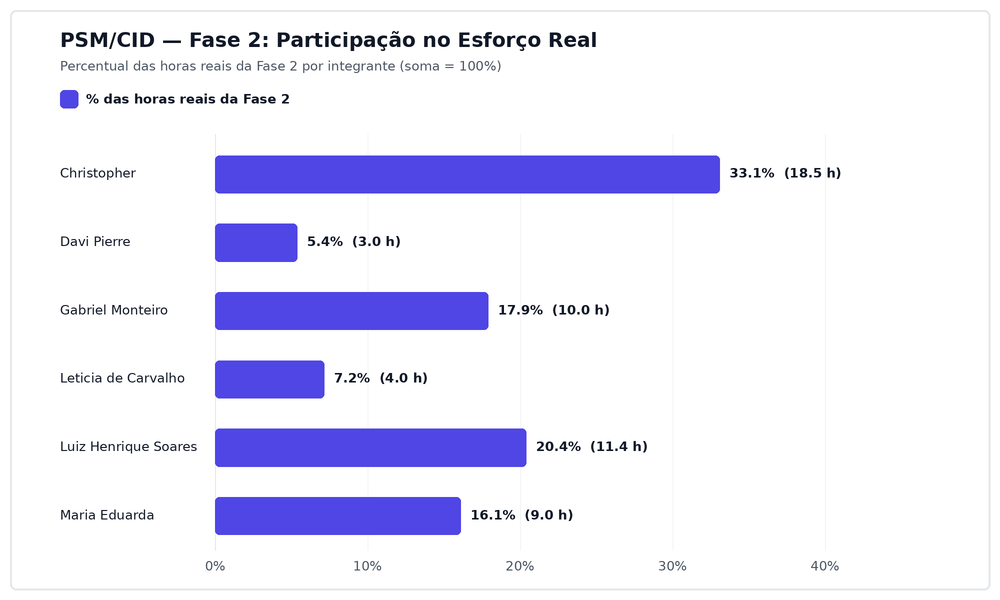
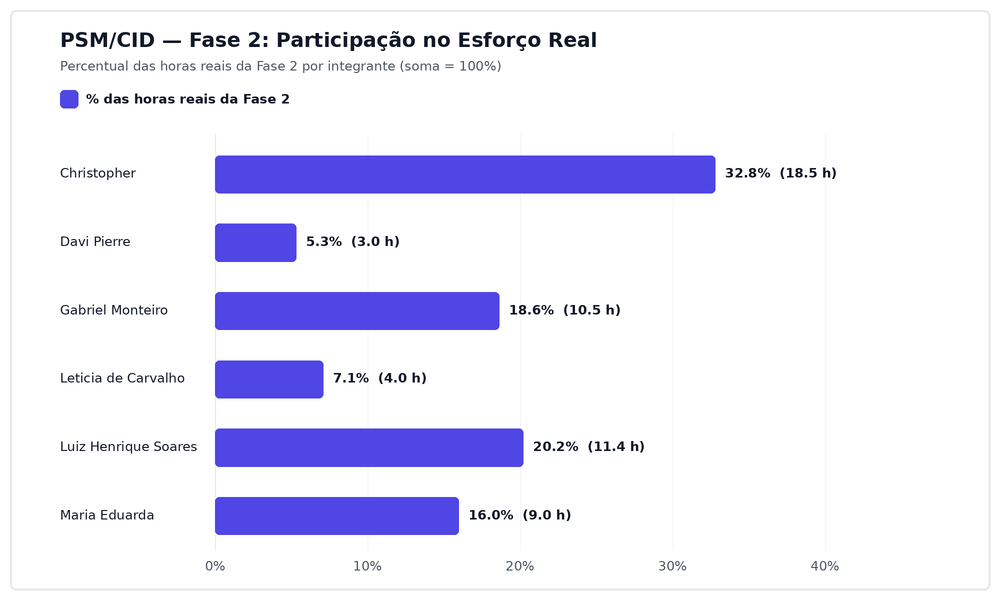
fix: incluir as horas da #30 no relatório PSM da Fase 2 e no apêndice

diff --git a/docs/gestao/relatorios/relatorio-psm-fase-2.md b/docs/gestao/relatorios/relatorio-psm-fase-2.md
@@ -72,7 +72,7 @@ Os dados primários coletados pelo coletor automatizado `scripts/coleta_psm.py` 
 
 | Fase | Total de Issues | Horas Estimadas (h) | Horas Reais (h) | Custo Estimado (R$) | Custo Real (R$) | Estado da Medição |
 | :--- | :---: | :---: | :---: | :---: | :---: | :--- |
-| **Fase 2** | 27 | 62,00 | 55,90 | R$ 2.790,00 | R$ 2.515,50 | 27 issues concluídas |
+| **Fase 2** | 27 | 62,50 | 56,40 | R$ 2.812,50 | R$ 2.538,00 | 27 issues concluídas |
 
 *Tabela 1: Recursos e custos da Fase 2 (Fonte: dados/gestao/01_recursos_e_custos_fases.csv).*
 
@@ -80,15 +80,15 @@ Os dados primários coletados pelo coletor automatizado `scripts/coleta_psm.py` 
 
 | Integrante | Login GitHub | Subgrupo | Issues Atribuídas | Horas Est. (h) | Horas Reais (h) | Custo Real (R$) | Esforço Real (%) |
 | :--- | :--- | :---: | :---: | :---: | :---: | :---: | :---: |
-| Christopher | `wChrstphr` | F2/F4 | 13 | 22,50 | 18,50 | R$ 832,50 | 33,09% |
-| Davi Pierre | `DaviPierre` | F1/F3 | 2 | 5,00 | 3,00 | R$ 135,00 | 5,37% |
-| Gabriel Monteiro | `GabrielSMonteiro` | F1/F3 | 3 | 11,00 | 10,00 | R$ 450,00 | 17,89% |
-| Letícia de Carvalho | `LeticiaSantosss` | F1/F3 | 2 | 4,50 | 4,00 | R$ 180,00 | 7,16% |
-| Luiz Henrique Soares | `luizh-gsoares` | F2/F4 | 6 | 11,00 | 11,40 | R$ 513,00 | 20,39% |
-| Maria Eduarda | `eduarda-ogomes` | F2/F4 | 5 | 8,00 | 9,00 | R$ 405,00 | 16,10% |
-| **Total** | - | - | **27** | **62,00** | **55,90** | **R$ 2.515,50** | **100,00%** |
+| Christopher | `wChrstphr` | F2/F4 | 12 | 22,50 | 18,50 | R$ 832,50 | 32,80% |
+| Davi Pierre | `DaviPierre` | F1/F3 | 2 | 5,00 | 3,00 | R$ 135,00 | 5,32% |
+| Gabriel Monteiro | `GabrielSMonteiro` | F1/F3 | 4 | 11,50 | 10,50 | R$ 472,50 | 18,62% |
+| Letícia de Carvalho | `LeticiaSantosss` | F1/F3 | 2 | 4,50 | 4,00 | R$ 180,00 | 7,09% |
+| Luiz Henrique Soares | `luizh-gsoares` | F2/F4 | 6 | 11,00 | 11,40 | R$ 513,00 | 20,21% |
+| Maria Eduarda | `eduarda-ogomes` | F2/F4 | 5 | 8,00 | 9,00 | R$ 405,00 | 15,96% |
+| **Total** | - | - | **27** | **62,50** | **56,40** | **R$ 2.538,00** | **100,00%** |
 
-*Tabela 2: Esforço individual na Fase 2 (Fonte: dados/gestao/06_contribuicao_por_fase.csv). Issues compartilhadas contam para cada responsável; o total corresponde às 27 issues distintas da fase. Ainda sem horas reais registradas: [#26](https://github.com/FCTE-Qualidade-de-Software-1/2026-2_T02_KAREN_JONES/issues/26), [#27](https://github.com/FCTE-Qualidade-de-Software-1/2026-2_T02_KAREN_JONES/issues/27) e [#74](https://github.com/FCTE-Qualidade-de-Software-1/2026-2_T02_KAREN_JONES/issues/74), a parte de Davi Pierre na [#23](https://github.com/FCTE-Qualidade-de-Software-1/2026-2_T02_KAREN_JONES/issues/23) e a [#30](https://github.com/FCTE-Qualidade-de-Software-1/2026-2_T02_KAREN_JONES/issues/30); os percentuais podem mudar quando forem preenchidas.*
+*Tabela 2: Esforço individual na Fase 2 (Fonte: dados/gestao/06_contribuicao_por_fase.csv). Issues compartilhadas contam para cada responsável; o total corresponde às 27 issues distintas da fase. Ainda sem horas reais registradas: [#26](https://github.com/FCTE-Qualidade-de-Software-1/2026-2_T02_KAREN_JONES/issues/26), [#27](https://github.com/FCTE-Qualidade-de-Software-1/2026-2_T02_KAREN_JONES/issues/27) e [#74](https://github.com/FCTE-Qualidade-de-Software-1/2026-2_T02_KAREN_JONES/issues/74) e a parte de Davi Pierre na [#23](https://github.com/FCTE-Qualidade-de-Software-1/2026-2_T02_KAREN_JONES/issues/23); os percentuais podem mudar quando forem preenchidas.*
 
 ![Horas estimadas e reais por integrante na Fase 2.](/img/gestao/04_horas_integrante_fase_2.png)
 
@@ -133,9 +133,9 @@ Em cumprimento ao terceiro critério de pronto da Issue #31, a tabela abaixo con
 | Indicador de Gestão | Fase 1 (Requisitos & Setup) | Fase 2 (Especificação GQM) | Balanço Consolidado da Entrega 1 | Tendência e Interpretação |
 | :--- | :---: | :---: | :---: | :--- |
 | **Total de Issues Alocadas** | 17 issues | 27 issues | **44 issues técnicas e de gestão** | A Fase 2 recebeu as correções do artigo depois do PC1. |
-| **Horas Estimadas Totais** | 53,50 h | 62,00 h | **115,50 h planejadas** | Planejamento próximo do executado no acumulado. |
-| **Horas Reais Acumuladas** | 57,91 h | 55,90 h | **113,81 h executadas** | Fases 1 e 2 concluídas. |
-| **Custo Equivalente (R$ 45/h)** | R$ 2.605,95 | R$ 2.515,50 | **R$ 5.121,45 investidos** | Abaixo dos R$ 5.197,50 estimados. |
+| **Horas Estimadas Totais** | 53,50 h | 62,50 h | **116,00 h planejadas** | Planejamento próximo do executado no acumulado. |
+| **Horas Reais Acumuladas** | 57,91 h | 56,40 h | **114,31 h executadas** | Fases 1 e 2 concluídas. |
+| **Custo Equivalente (R$ 45/h)** | R$ 2.605,95 | R$ 2.538,00 | **R$ 5.143,95 investidos** | Abaixo dos R$ 5.220,00 estimados. |
 | **Aderência aos Prazos** | 29,4% | 44,4% | **44,4% no prazo na F2** | Melhora em relação à Fase 1, ainda longe da meta de 100%. |
 | **Taxa de Revisão por Pares** | 50,0% | 45,0% | **46,7% dos PRs aprovados (14 de 30)** | Abaixo da regra de aprovação do `CONTRIBUTING.md`. |
 | **Foco Principal do Esforço** | Requisitos, normas e governança | GQM, métricas, artigo e apresentação | **Ciclo completo da Entrega 1** | Transição fluida entre definição e especificação. |
@@ -146,8 +146,8 @@ Os valores da Fase 1 nesta seção vêm da coleta atual e diferem dos publicados
 
 | Critério de decisão (seção 2) | Resultado | Situação |
 | :--- | :--- | :--- |
-| Desvio de esforço dentro de ±20% | -9,8% (55,90 h reais para 62,00 h estimadas) | Atendido |
-| Disparidade individual decrescendo | De 29,35 para 27,72 pontos percentuais | Atendido |
+| Desvio de esforço dentro de ±20% | -9,8% (56,40 h reais para 62,50 h estimadas) | Atendido |
+| Disparidade individual decrescendo | De 29,35 para 27,48 pontos percentuais | Atendido |
 | Ganho de acurácia positivo | -1,6 ponto: a Fase 1 ficou a 8,2 pontos de 100% e a Fase 2 a 9,8 | Não atendido, com as duas fases dentro da faixa |
 | Aderência geral de 100,0% | 44,4% | Não atendido |
 | 100,0% dos pull requests aprovados por pares | 45,0%, contando só as aprovações registradas no GitHub (ver limite da medida na Tabela 4) | Não atendido |
@@ -203,4 +203,4 @@ Todos os indicadores apresentados neste relatório são respaldados pelos artefa
 | :---: | :---: | :--- | :--- | :--- |
 | 1.0 | 18/10/2026 | Estruturação inicial do Relatório PSM/CID da Fase 2 (esqueleto normativo, measurement constructs e decisões de gestão preliminares) | [Maria Eduarda](https://github.com/eduarda-ogomes) | - |
 | 1.1 | 20/10/2026 | Atualização das medições da Fase 2 (15 issues concluídas, 21,7h reais) e consolidação da Entrega 1 pós-merge com a main | [Maria Eduarda](https://github.com/eduarda-ogomes) | - |
-| 1.2 | 05/11/2026 | Atualização com a coleta de 05/11 (27 issues, 55,9h reais), novas figuras, taxa de revisão conferida nos pull requests e interpretação dos critérios de decisão | [Christopher Paraizo](https://github.com/wChrstphr) | |
+| 1.2 | 05/11/2026 | Atualização com a coleta de 05/11 (27 issues, 56,4h reais), novas figuras, taxa de revisão conferida nos pull requests e interpretação dos critérios de decisão | [Christopher Paraizo](https://github.com/wChrstphr) | |

diff --git a/artigo/contribuicao-e-ia.md b/artigo/contribuicao-e-ia.md
@@ -66,13 +66,13 @@ O percentual de esforço individual foi calculado com base no total de horas rea
 
 | Integrante | Login GitHub | Subgrupo | Issues Atribuídas | Horas Est. (h) | Horas Reais (h) | Commits / PRs | Esforço Real (%) |
 | :--- | :--- | :---: | :---: | :---: | :---: | :---: | :---: |
-| Christopher | `@wChrstphr` | F2/F4 | 14 | 25,00 | 21,00 | 87 / 14 | 18,45% |
-| Davi Pierre | `@DaviPierre` | F1/F3 | 6 | 20,00 | 21,00 | 5 / 2 | 18,45% |
-| Gabriel Monteiro | `@GabrielSMonteiro` | F1/F3 | 7 | 27,00 | 28,00 | 37 / 6 | 24,60% |
-| Letícia de Carvalho | `@LeticiaSantosss` | F1/F3 | 7 | 12,00 | 9,91 | 6 / 6 | 8,71% |
-| Luiz Henrique Soares | `@luizh-gsoares` | F2/F4 | 7 | 12,00 | 12,40 | 21 / 8 | 10,90% |
-| Maria Eduarda | `@eduarda-ogomes` | F2/F4 | 8 | 19,50 | 21,50 | 31 / 10 | 18,89% |
-| **Total** | - | - | **49** | **115,50** | **113,81** | **187 / 46** | **100,00%** |
+| Christopher | `@wChrstphr` | F2/F4 | 13 | 25,00 | 21,00 | 87 / 15 | 18,37% |
+| Davi Pierre | `@DaviPierre` | F1/F3 | 6 | 20,00 | 21,00 | 5 / 2 | 18,37% |
+| Gabriel Monteiro | `@GabrielSMonteiro` | F1/F3 | 8 | 27,50 | 28,50 | 37 / 6 | 24,93% |
+| Letícia de Carvalho | `@LeticiaSantosss` | F1/F3 | 7 | 12,00 | 9,91 | 6 / 6 | 8,67% |
+| Luiz Henrique Soares | `@luizh-gsoares` | F2/F4 | 7 | 12,00 | 12,40 | 21 / 8 | 10,85% |
+| Maria Eduarda | `@eduarda-ogomes` | F2/F4 | 8 | 19,50 | 21,50 | 31 / 10 | 18,81% |
+| **Total** | - | - | **49** | **116,00** | **114,31** | **187 / 47** | **100,00%** |
 
 *Nota explicativa sobre os dados:* Os valores vêm da coleta de 05/11/2026 e somam as milestones Fase 1 e Fase 2, inclusive a [#28](https://github.com/FCTE-Qualidade-de-Software-1/2026-2_T02_KAREN_JONES/issues/28) e as correções [#88](https://github.com/FCTE-Qualidade-de-Software-1/2026-2_T02_KAREN_JONES/issues/88) e [#92](https://github.com/FCTE-Qualidade-de-Software-1/2026-2_T02_KAREN_JONES/issues/92), fechadas depois de 26/10. As issues compartilhadas contam para cada responsável. Commits e PRs cobrem o projeto inteiro até a data da coleta. Ainda faltam horas de [#26](https://github.com/FCTE-Qualidade-de-Software-1/2026-2_T02_KAREN_JONES/issues/26), [#27](https://github.com/FCTE-Qualidade-de-Software-1/2026-2_T02_KAREN_JONES/issues/27) e [#74](https://github.com/FCTE-Qualidade-de-Software-1/2026-2_T02_KAREN_JONES/issues/74) e a parte de Davi Pierre na [#23](https://github.com/FCTE-Qualidade-de-Software-1/2026-2_T02_KAREN_JONES/issues/23), então os percentuais podem mudar.
 
@@ -90,14 +90,14 @@ Em atendimento à Premissa 13 da especificação e ao Critério AG-C5 da rubrica
 \hline
 \textbf{Integrante} & \textbf{Issues} & \textbf{Horas Est.} & \textbf{Horas Reais} & \textbf{Commits/PRs} & \textbf{Esforço (\%)} \\
 \hline
-Christopher & 14 & 25.0h & 21.0h & 87/14 & 18.45\% \\
-Davi Pierre & 6 & 20.0h & 21.0h & 5/2 & 18.45\% \\
-Gabriel Monteiro & 7 & 27.0h & 28.0h & 37/6 & 24.60\% \\
-Letícia de Carvalho & 7 & 12.0h & 9.9h & 6/6 & 8.71\% \\
-Luiz Henrique Soares & 7 & 12.0h & 12.4h & 21/8 & 10.90\% \\
-Maria Eduarda & 8 & 19.5h & 21.5h & 31/10 & 18.89\% \\
+Christopher & 13 & 25.0h & 21.0h & 87/15 & 18.37\% \\
+Davi Pierre & 6 & 20.0h & 21.0h & 5/2 & 18.37\% \\
+Gabriel Monteiro & 8 & 27.5h & 28.5h & 37/6 & 24.93\% \\
+Letícia de Carvalho & 7 & 12.0h & 9.9h & 6/6 & 8.67\% \\
+Luiz Henrique Soares & 7 & 12.0h & 12.4h & 21/8 & 10.85\% \\
+Maria Eduarda & 8 & 19.5h & 21.5h & 31/10 & 18.81\% \\
 \hline
-\textbf{Total} & \textbf{49} & \textbf{115.5h} & \textbf{113.8h} & \textbf{187/46} & \textbf{100.00\%} \\
+\textbf{Total} & \textbf{49} & \textbf{116.0h} & \textbf{114.3h} & \textbf{187/47} & \textbf{100.00\%} \\
 \hline
 \end{tabular}
 \end{table}
@@ -112,4 +112,4 @@ Maria Eduarda & 8 & 19.5h & 21.5h & 31/10 & 18.89\% \\
 | 1.0 | 18/10/2026 | Elaboração dos apêndices do artigo com tabela de contribuição individual e declaração de uso de IA | [Maria Eduarda](https://github.com/eduarda-ogomes) | [Luiz Henrique Soares](https://github.com/luizh-gsoares) |
 | 1.1 | 20/10/2026 | Atualização da tabela de contribuição pós-merge da main com avanço da Fase 2 (83,9h reais) | [Maria Eduarda](https://github.com/eduarda-ogomes) | - |
 | 1.2 | 26/10/2026 | Declaração de IA reescrita conforme o artigo e registro de uso de IA por pull request até o PR #84 | [Christopher Paraizo](https://github.com/wChrstphr) | |
-| 1.3 | 05/11/2026 | Tabela de contribuição atualizada com a coleta de 05/11 (113,81h reais nas Fases 1 e 2) | [Christopher Paraizo](https://github.com/wChrstphr) | |
+| 1.3 | 05/11/2026 | Tabela de contribuição atualizada com a coleta de 05/11 (114,31h reais nas Fases 1 e 2) | [Christopher Paraizo](https://github.com/wChrstphr) | |
